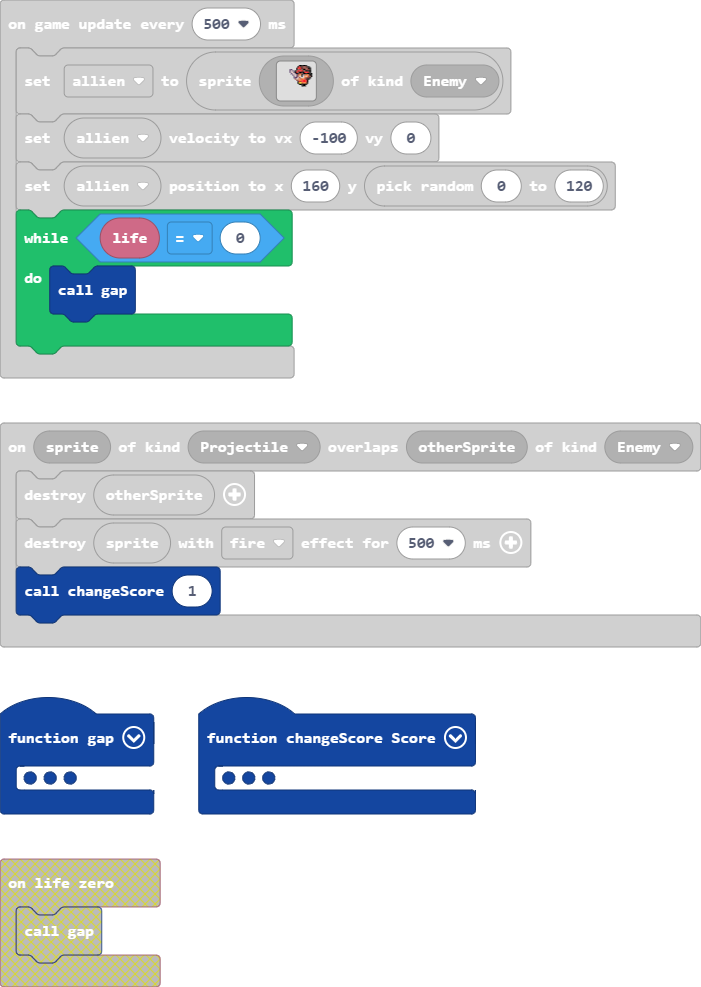
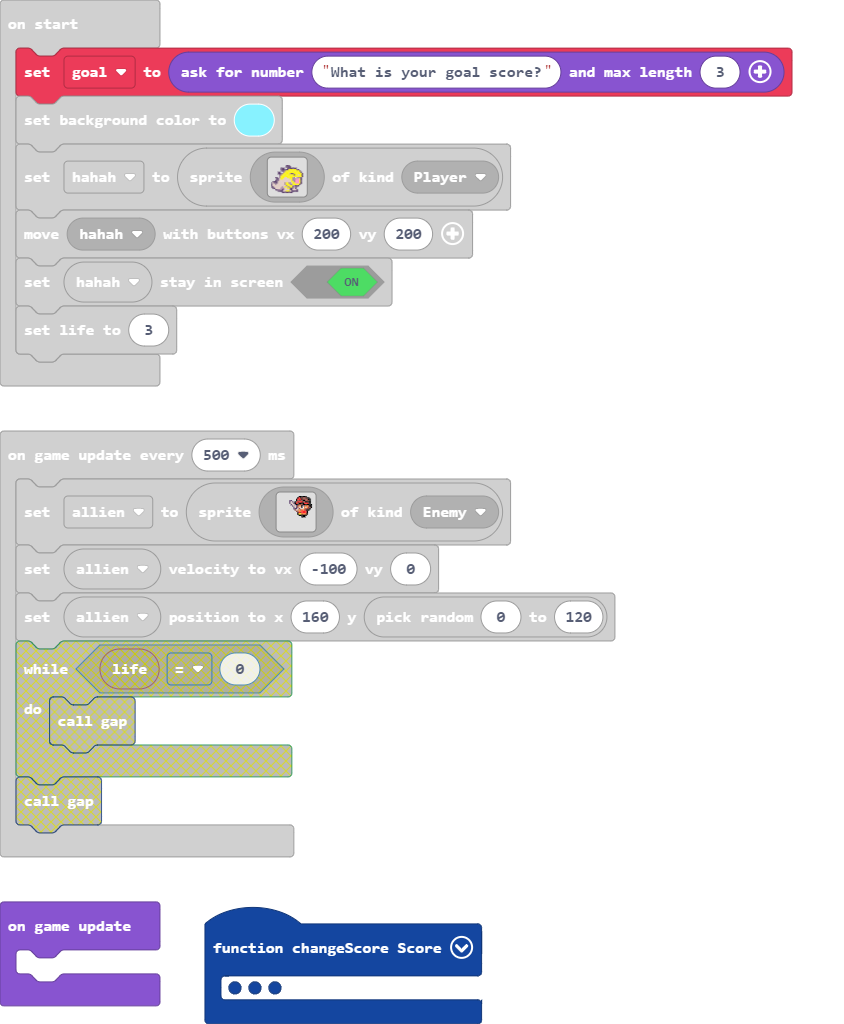
Update main.blocks, main.ts

diff --git a/main.ts b/main.ts
@@ -36,7 +36,7 @@ controller.A.onEvent(ControllerButtonEvent.Pressed, function () {
     music.pewPew.play()
 })
 function changeScore (Score: number) {
-    info.changeScoreBy(1)
+    info.changeScoreBy(Score)
     music.beamUp.play()
 }
 function gap () {
@@ -59,7 +59,7 @@ let allien: Sprite = null
 let projectile: Sprite = null
 let hahah: Sprite = null
 let goal = 0
-goal = game.askForNumber("What is your goal score?")
+goal = game.askForNumber("What is your goal score?", 3)
 scene.setBackgroundColor(9)
 hahah = sprites.create(img`
     ........................
@@ -90,6 +90,9 @@ hahah = sprites.create(img`
 controller.moveSprite(hahah, 200, 200)
 hahah.setStayInScreen(true)
 info.setLife(3)
+game.onUpdate(function () {
+	
+})
 game.onUpdateInterval(500, function () {
     allien = sprites.create(img`
         ..............ffffff....
@@ -119,7 +122,4 @@ game.onUpdateInterval(500, function () {
         `, SpriteKind.Enemy)
     allien.setVelocity(-100, 0)
     allien.setPosition(160, randint(0, 120))
-    while (info.life() == 0) {
-        gap()
-    }
 })
